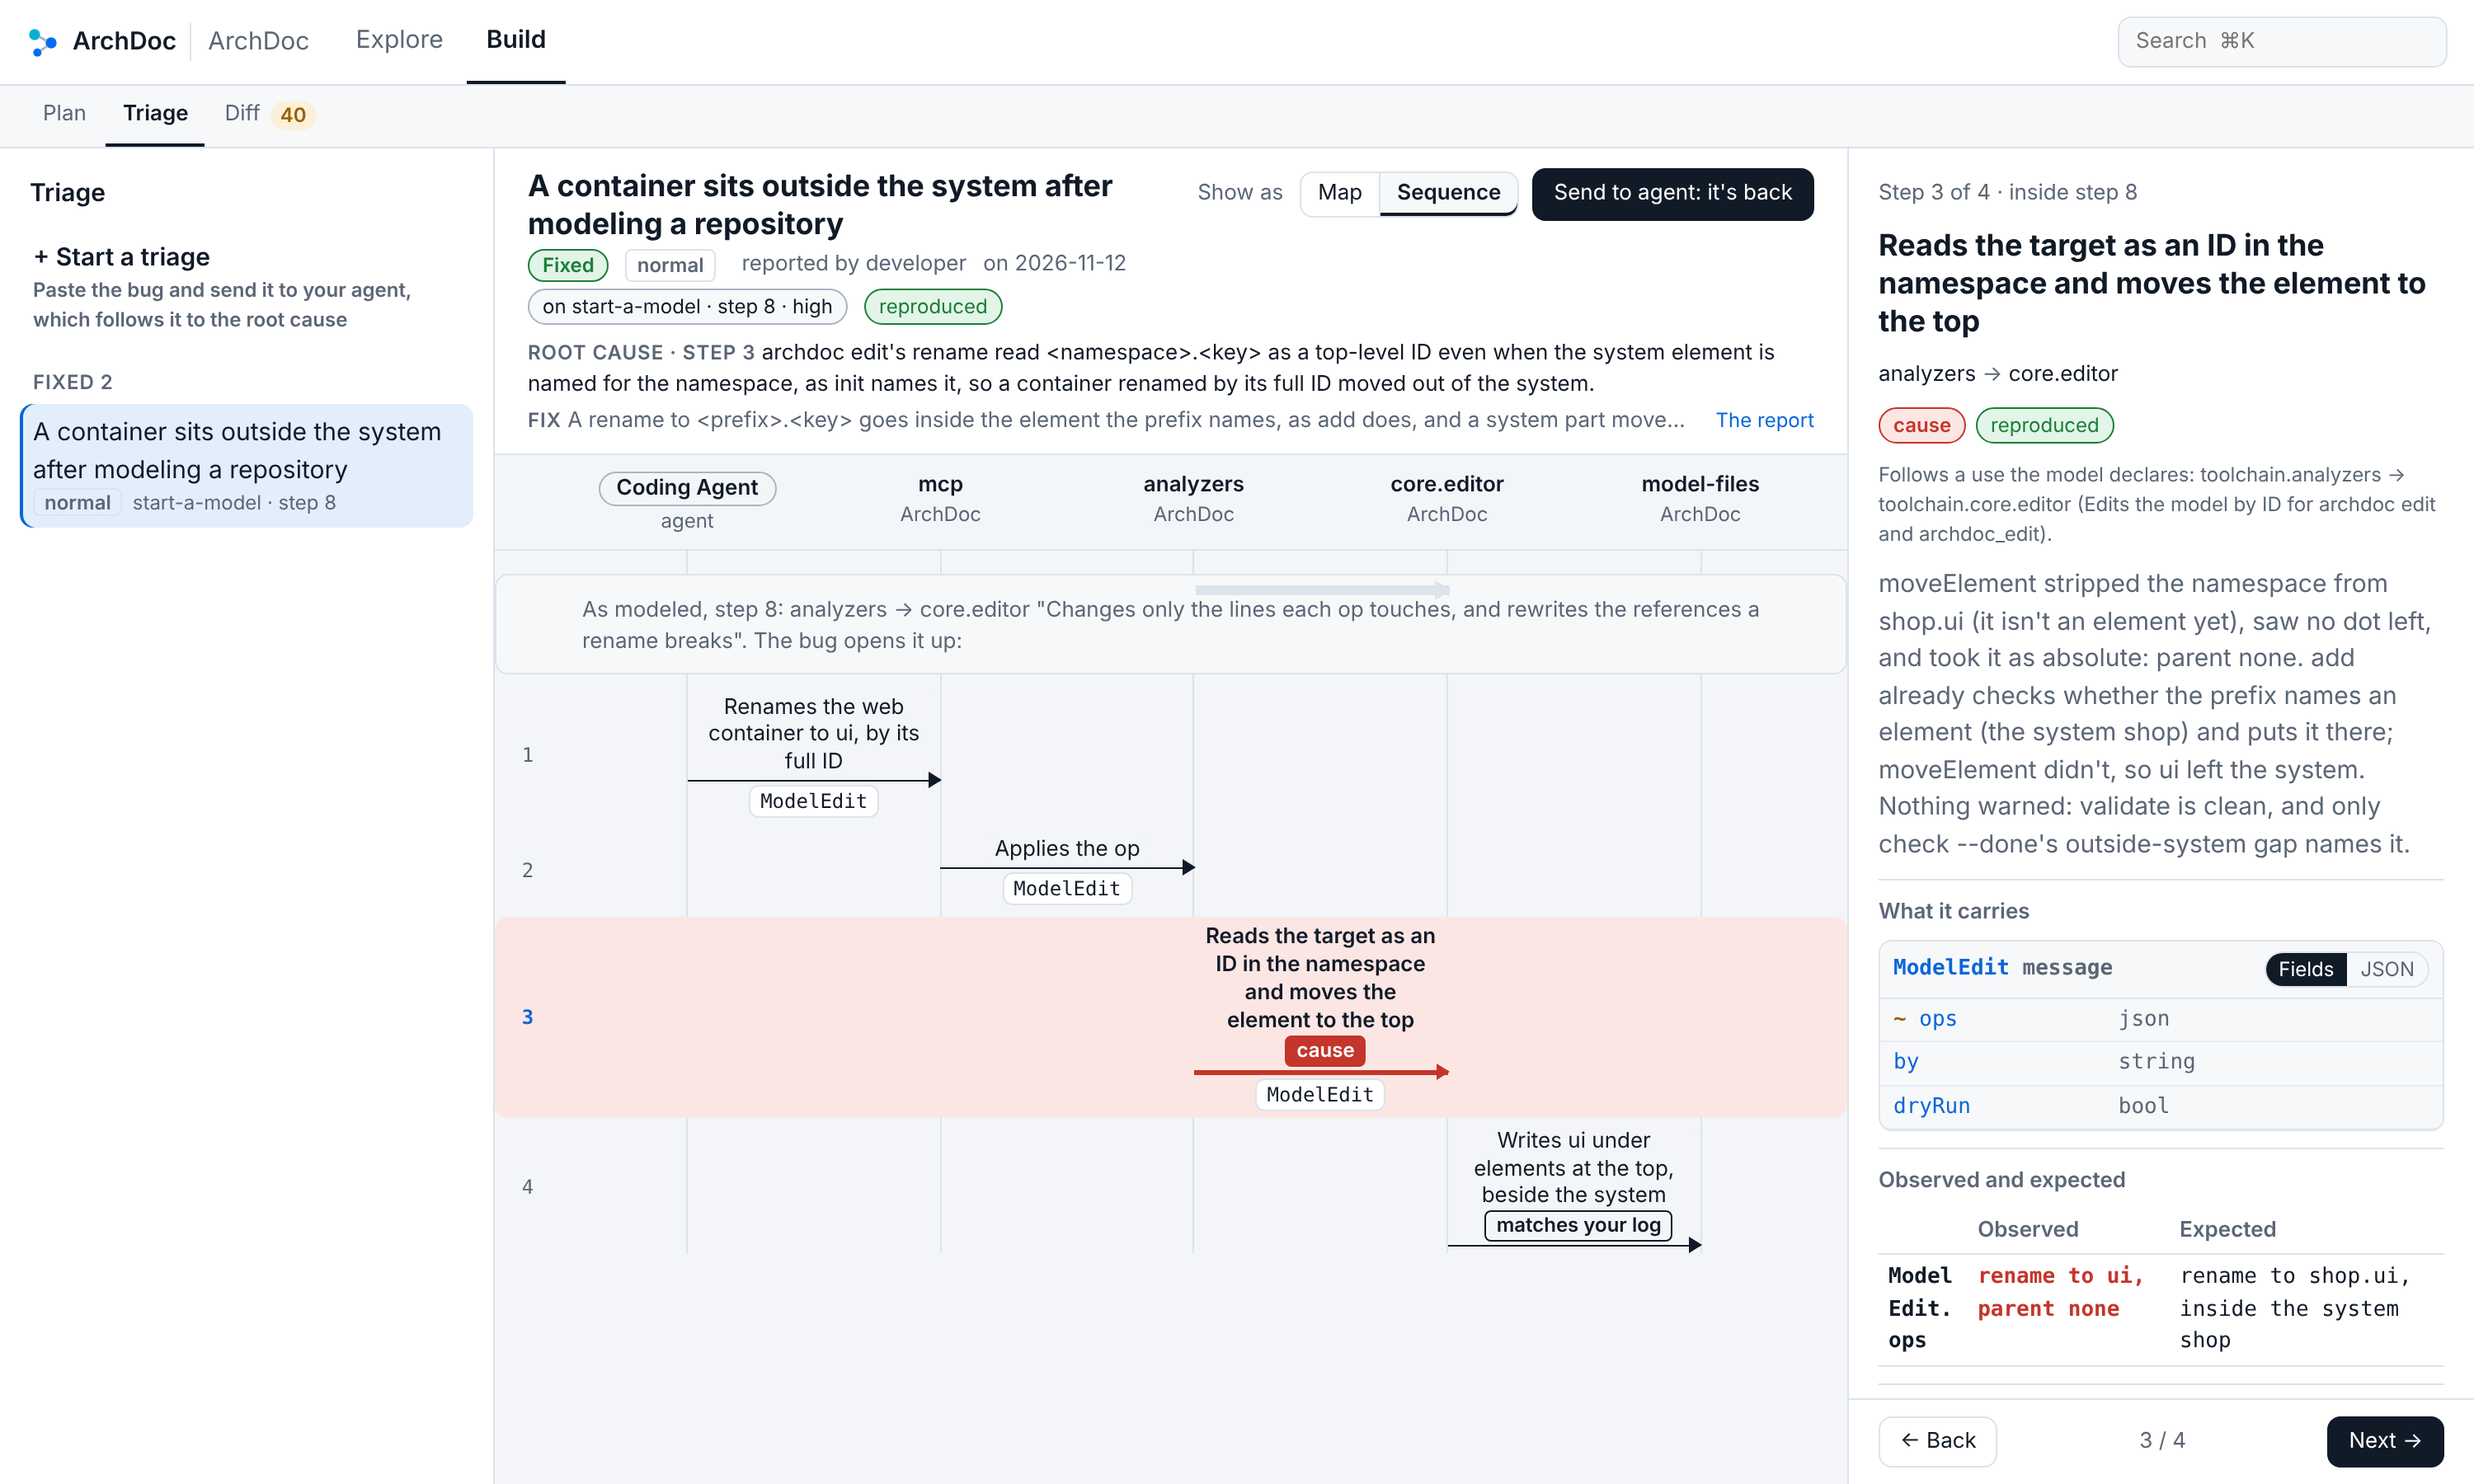
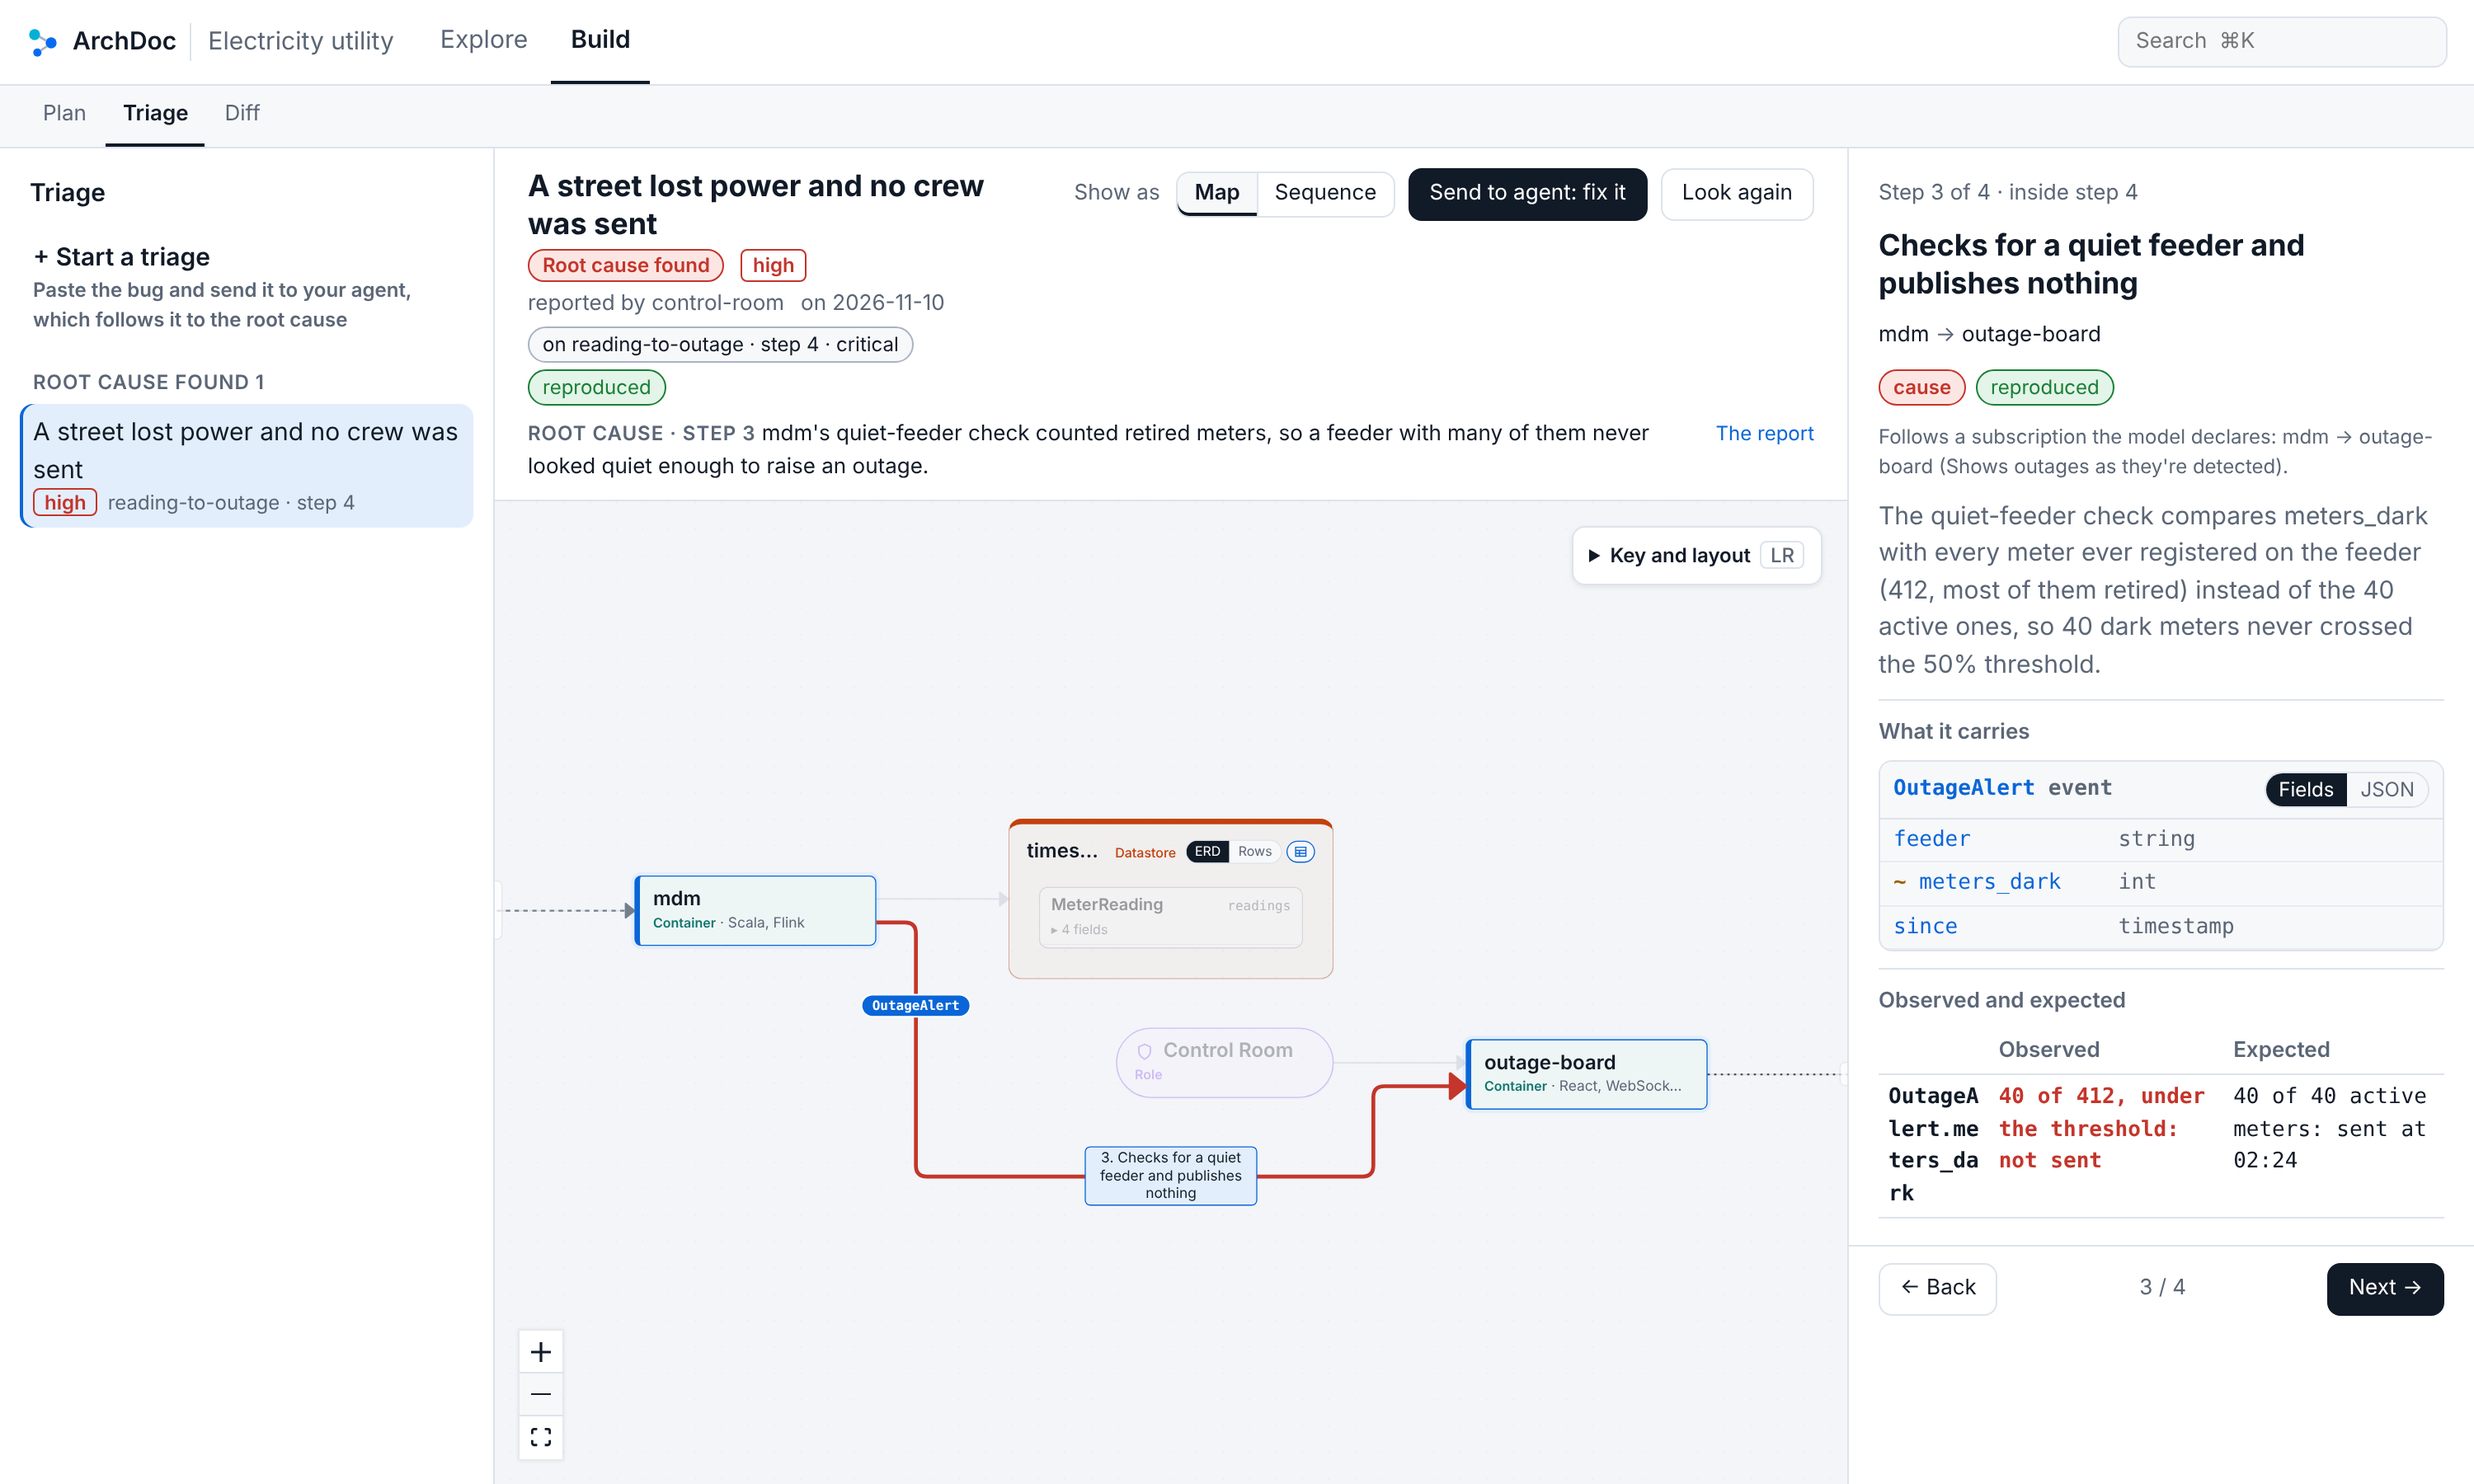
feat(site): a navbar for people, and Triage drawn on the map
The navbar leads with Explore, Triage, Plan, and Get started; Docs,
the live demo, and GitHub sit on the right, and Agents and Blog move
to the footer. Triage's screenshot is a record on the map: an outage
alert that was never sent, drawn in red across a small grid model.

Claude-Session: https://claude.ai/code/session_0162GkwKReUNMPh5odHtpQRA

diff --git a/docusaurus.config.js b/docusaurus.config.js
@@ -97,17 +97,16 @@ const config = {
           src: 'img/archdoc-mark.svg',
         },
         items: [
+          {to: '/docs/explorer', label: 'Explore', position: 'left'},
+          {to: '/docs/triage', label: 'Triage', position: 'left'},
+          {to: '/docs/plan', label: 'Plan', position: 'left'},
+          {to: '/docs/getting-started', label: 'Get started', position: 'left'},
           {
             type: 'docSidebar',
             sidebarId: 'docsSidebar',
-            position: 'left',
+            position: 'right',
             label: 'Docs',
           },
-          {to: '/docs/getting-started', label: 'Getting started', position: 'left'},
-          {to: '/docs/plan', label: 'Plan', position: 'left'},
-          {to: '/docs/triage', label: 'Triage', position: 'left'},
-          {to: '/docs/agents', label: 'Agents', position: 'left'},
-          {to: '/blog', label: 'Blog', position: 'left'},
           {to: 'pathname:///demo/', label: 'Live demo', position: 'right'},
           {
             href: repo,

diff --git a/src/pages/index.tsx b/src/pages/index.tsx
@@ -453,7 +453,7 @@ function Triage() {
           </div>
           <Window
             src="/img/v1/triage.png"
-            alt="A Triage record drawn as a sequence: four steps across the agent, MCP, analyzers, and the model editor, with the root cause highlighted at step 3"
+            alt="A Triage record on the map: the outage alert mdm never sent, drawn in red, with what was observed and expected beside it"
             className={styles.showcaseShot}
           />
         </div>
